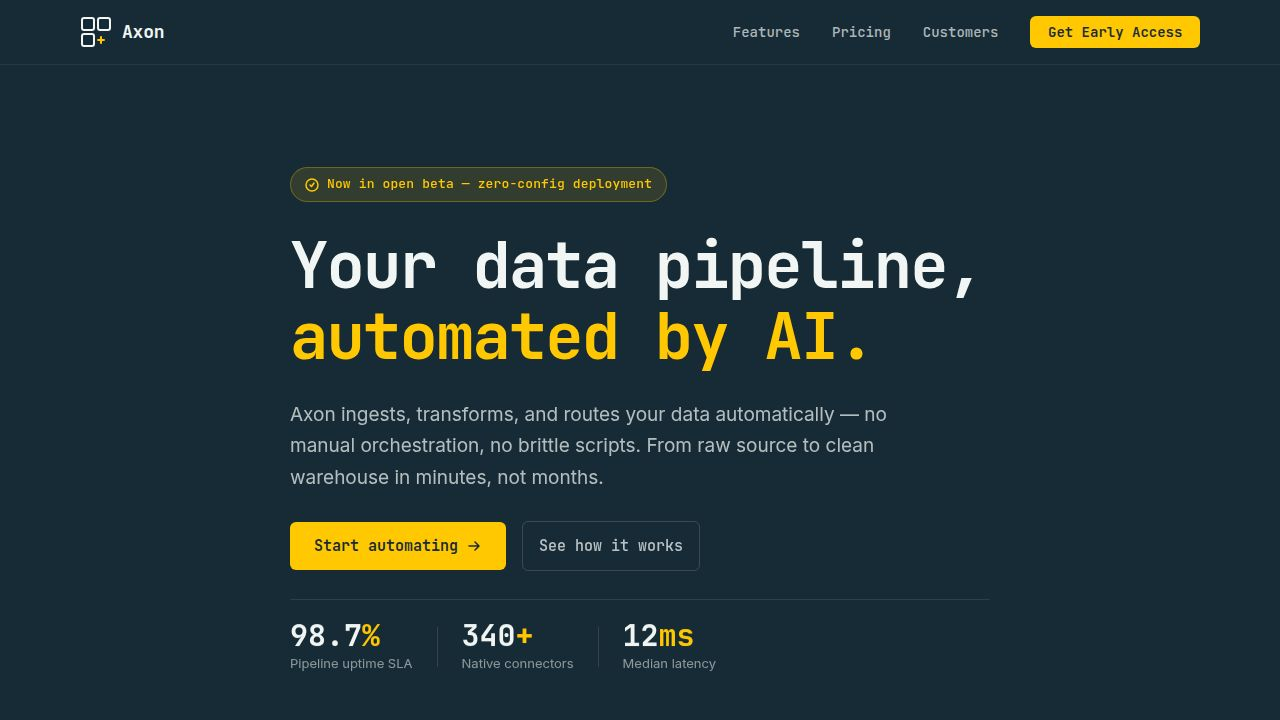
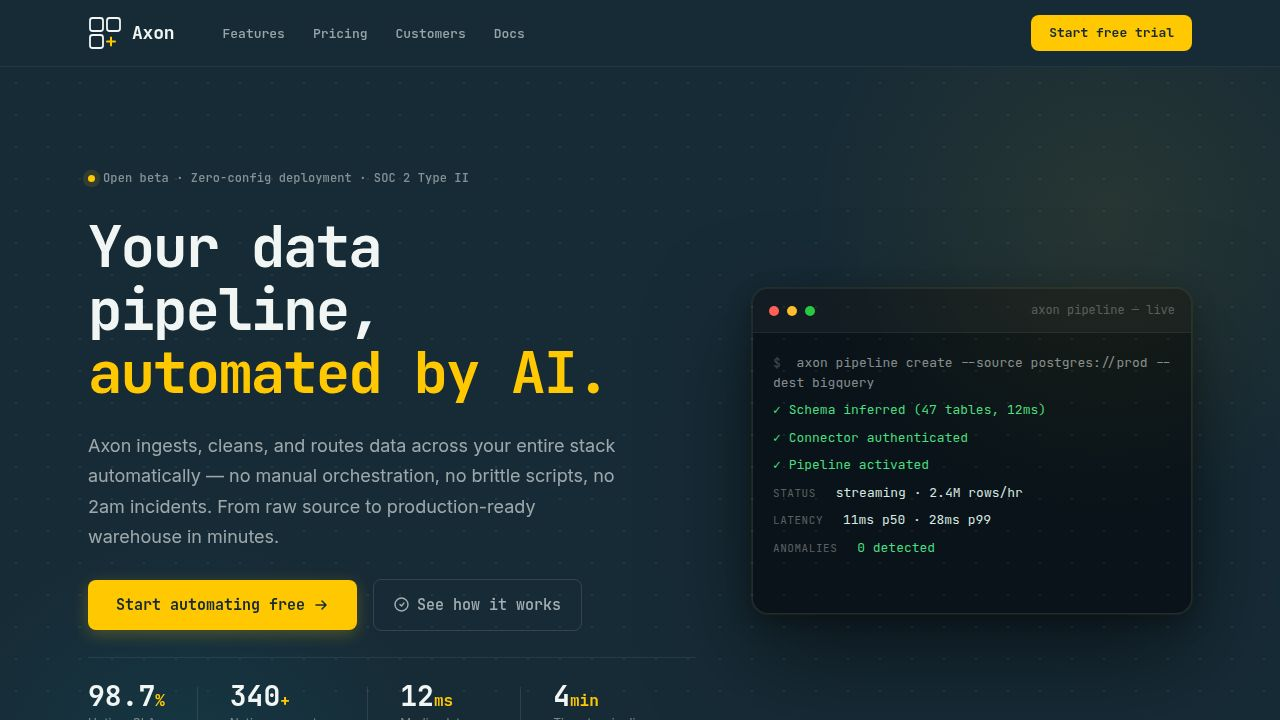
sf

diff --git a/artifacts/landing-page/vite.config.ts b/artifacts/landing-page/vite.config.ts
@@ -1,6 +1,4 @@
 import { defineConfig } from "vite";
-import react from "@vitejs/plugin-react";
-import tailwindcss from "@tailwindcss/vite";
 import path from "path";
 import runtimeErrorOverlay from "@replit/vite-plugin-runtime-error-modal";
 
@@ -29,8 +27,6 @@ if (!basePath) {
 export default defineConfig({
   base: basePath,
   plugins: [
-    react(),
-    tailwindcss(),
     runtimeErrorOverlay(),
     ...(process.env.NODE_ENV !== "production" &&
     process.env.REPL_ID !== undefined
@@ -49,9 +45,7 @@ export default defineConfig({
   resolve: {
     alias: {
       "@": path.resolve(import.meta.dirname, "src"),
-      "@assets": path.resolve(import.meta.dirname, "..", "..", "attached_assets"),
     },
-    dedupe: ["react", "react-dom"],
   },
   root: path.resolve(import.meta.dirname),
   build: {